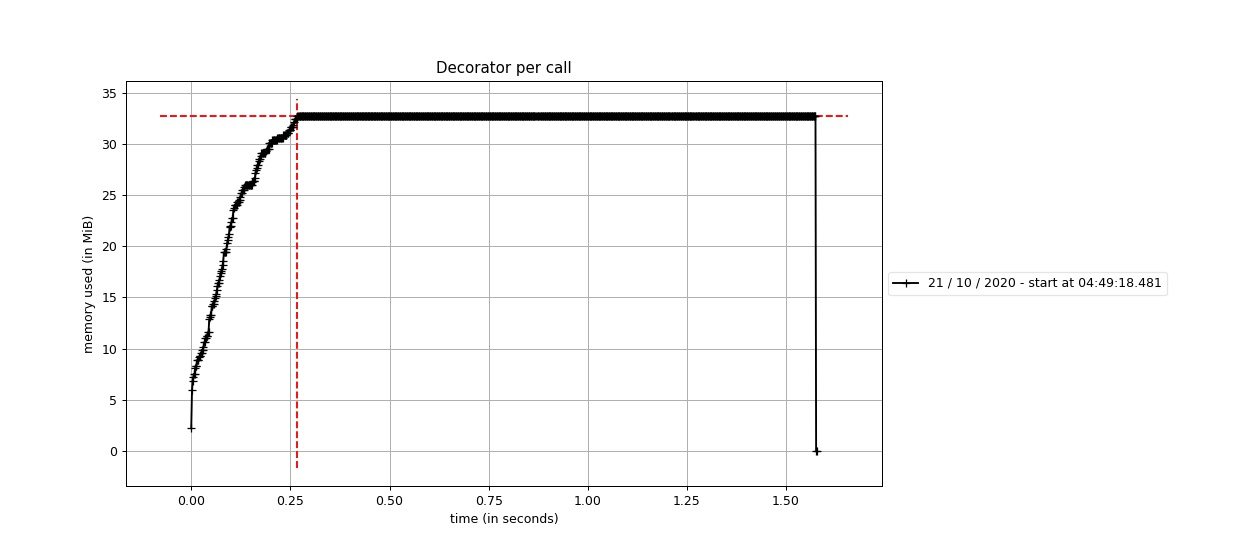
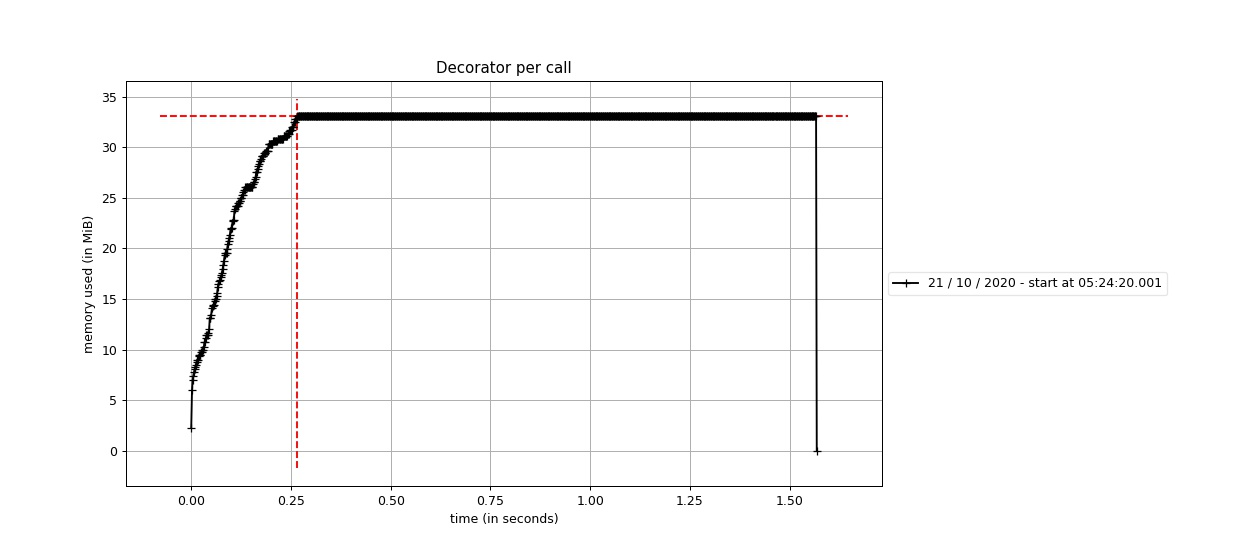
code review requests

diff --git a/mem.py b/mem.py
@@ -29,6 +29,9 @@ class MyClass(HTTPBearer):
         self.n = n
 
     def dependency(self, request: Request) -> List[str]:
+        # making sure we can extract the HTTP request object from the endpoint call.
+        assert isinstance(request, Request)
+
         return [PAYLOAD for _ in range(self.n)]
 
 
@@ -44,6 +47,10 @@ def decorator_with_arg(n: int):
         @functools.wraps(func)
         def wrapper_decorator(*args, **kwargs):
             kwargs["my_param"] = [PAYLOAD for _ in range(n)]
+
+            # making sure we can extract the HTTP request object from the endpoint call.
+            assert isinstance(args["request"], Request)
+
             return func(*args, **kwargs)
         return wrapper_decorator
 
@@ -69,7 +76,7 @@ def test_app() -> TestClient:
     ):
         assert len(my_param) == PAYLOAD_REPLICATION
         r = [x.lower() for x in my_param]
-        return r[0]
+        return r
 
     @app.get("/decorator")
     @decorator_with_arg(PAYLOAD_REPLICATION)

diff --git a/README.md b/README.md
@@ -22,15 +22,15 @@ Memory usage was the similar but decorators are slower.
 mprof: Sampling memory every 0.0005s
 running new process
 INFO:root:[+] Running object/per call test.
-INFO:root:Peak RSS memory usage: 80380 kB
-INFO:root:Execution time for 1000 calls: 9.631143831997178s
+INFO:root:Peak RSS memory usage: 89416 kB
+INFO:root:Execution time for 1000 calls: 96.67329733599036s
 Using last profile data.
 
 mprof: Sampling memory every 0.0005s
 running new process
 INFO:root:[+] Running decorator per call test.
-INFO:root:Peak RSS memory usage: 33512 kB
-INFO:root:Execution time for 1000 calls: 1.2871662839897908s
+INFO:root:Peak RSS memory usage: 33860 kB
+INFO:root:Execution time for 1000 calls: 1.2823796810116619s
 Using last profile data.
 ```
 
